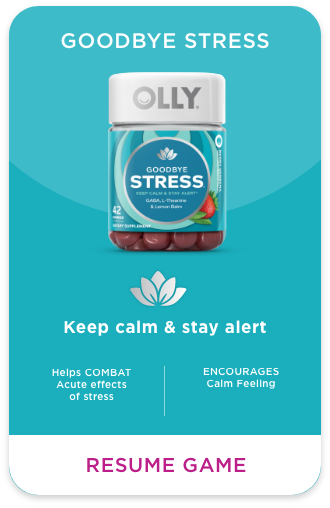
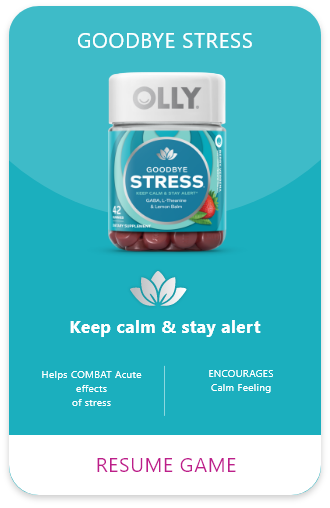
Fix bugs UI

diff --git a/TemplateData/style.css b/TemplateData/style.css
@@ -269,7 +269,7 @@ figure, body, p, h1, h2, h3, h4, h5, h6, * {
 }
 
 .home-btn {
-    width: calc(100vw - 100px);
+    width: calc(100% - 100px);
     margin-left: auto;
     margin-right: auto;
     padding: 15px 10px;
@@ -298,7 +298,7 @@ figure, body, p, h1, h2, h3, h4, h5, h6, * {
 
 .how-inner {
     padding: 20px;
-    min-height: calc(100vh - 40px);
+    min-height: calc(100% - 40px);
 }
 
 .logo-how {
